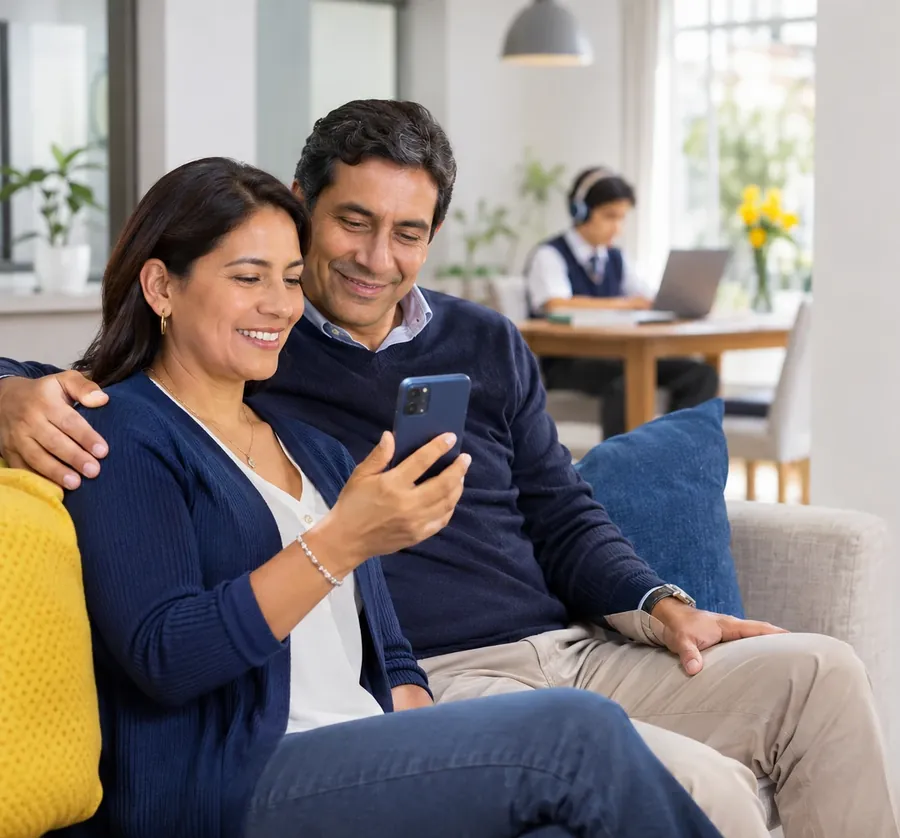
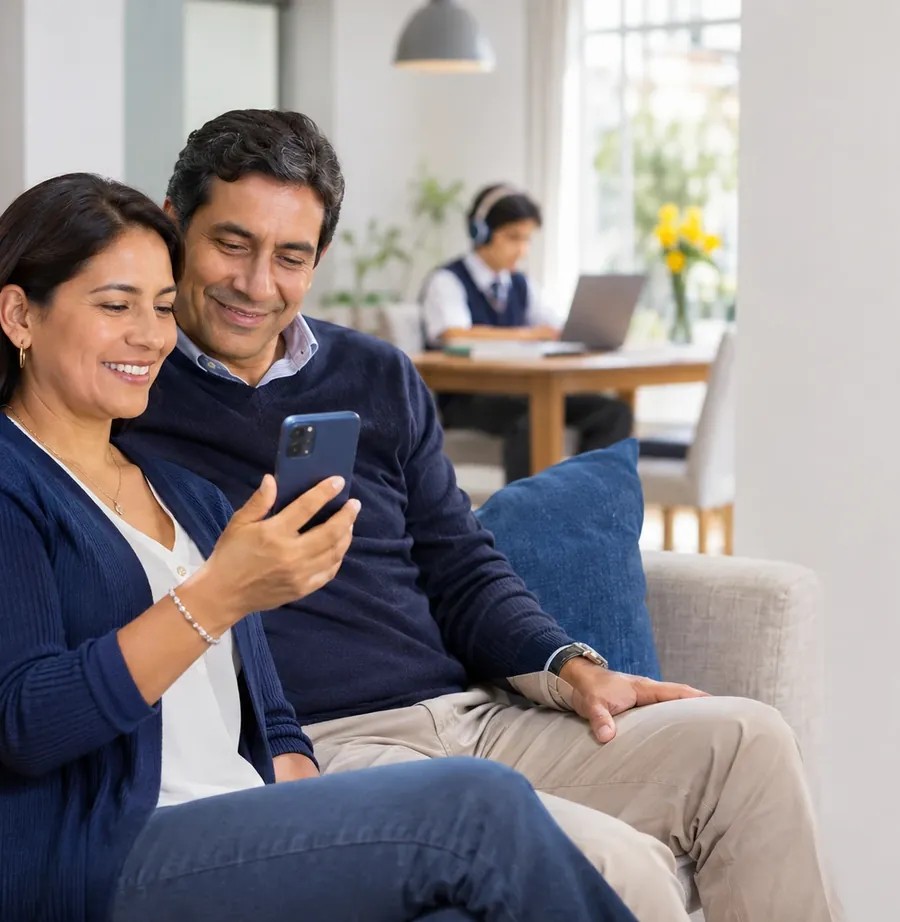
Propuesta A: foto S.O.S. nueva, sección empresas y recorte de padres
- Franja S.O.S. con la nueva foto (alumna repasando de noche)
- Nueva sección "matLab Empresas" con foto del taller corporativo
- Foto de los padres recortada desde la izquierda (sin la mano cortada)

Claude-Session: https://claude.ai/code/session_012ze8WRdCQ41QUxvsmvKpor

diff --git a/matlab-web/opcion-a/index.html b/matlab-web/opcion-a/index.html
@@ -232,7 +232,7 @@
     <section class="pa-padres" aria-labelledby="titulo-padres">
       <picture>
         <source media="(max-width: 900px)" srcset="/img/opcion-a/padres-informe-movil.webp">
-        <img src="/img/opcion-a/padres-informe.webp" alt="Mamá y papá revisando en el celular el avance de su hijo, que estudia al fondo" width="1536" height="1024" loading="lazy">
+        <img src="/img/opcion-a/padres-informe.webp" alt="Mamá y papá revisando en el celular el avance de su hijo, que estudia al fondo" width="1361" height="1024" loading="lazy">
       </picture>
       <div class="pa-ancho pa-padres-in">
         <div class="pa-padres-texto aparece">
@@ -286,9 +286,9 @@
         <p class="pa-eyebrow">Programas</p>
         <h2 class="pa-h2">Elige el programa <span>que necesita</span></h2>
         <div class="pa-programas" data-tarjetas="home" data-fotos></div>
-        <!-- Clases S.O.S. — PENDIENTE: foto nueva. Para ponerla, quita "sin-foto" y agrega aquí:
-             <img src="/img/opcion-a/prog-sos.webp" alt="..." width="1100" height="733" loading="lazy"> -->
-        <div class="pa-sos-banda sin-foto aparece">
+        <!-- Clases S.O.S. (foto img/opcion-a/prog-sos.webp) -->
+        <div class="pa-sos-banda aparece">
+          <img src="/img/opcion-a/prog-sos.webp" alt="Alumna repasando de noche en una clase virtual antes de su examen" width="1100" height="733" loading="lazy">
           <div class="pa-sos-texto">
             <p class="pa-eyebrow">Clases de emergencia S.O.S.</p>
             <h3>¿Tiene examen mañana?</h3>
@@ -308,6 +308,22 @@
         <img class="pa-matti-reserva" src="/img/mascotas/matti-cel.webp" alt="" width="260" height="303" loading="lazy">
         <p class="pa-intro pa-intro-claro">Responde dos preguntas, mira los horarios libres de la semana y separa la clase de tu hijo en menos de un minuto.</p>
         <div id="reserva-clase"></div>
+      </div>
+    </section>
+
+    <!-- ============ EMPRESAS (foto img/opcion-a/empresas-taller.webp) ============ -->
+    <section class="pa-seccion" id="empresas">
+      <div class="pa-ancho pa-empresas">
+        <img class="aparece" src="/img/opcion-a/empresas-taller.webp" alt="Facilitador de matLab dictando un taller de educación financiera a un equipo de trabajo" width="1200" height="800" loading="lazy">
+        <div>
+          <p class="pa-eyebrow">matLab Empresas</p>
+          <h2 class="pa-h2">Talleres de números y educación financiera <span>para empresas</span></h2>
+          <p class="pa-intro" style="margin-inline:0">Llevamos la metodología de matLab a tu equipo de trabajo: talleres prácticos de finanzas personales y manejo de números, presenciales o virtuales.</p>
+          <div class="pa-hero-botones" style="margin-bottom:0">
+            <a class="pa-btn pa-btn-primario" data-whatsapp="empresas">Cotizar un taller <span aria-hidden="true">→</span></a>
+            <a class="pa-btn pa-btn-borde" href="mailto:marketing@matlab.com.pe">marketing@matlab.com.pe</a>
+          </div>
+        </div>
       </div>
     </section>
   </main>

diff --git a/matlab-web/css/opcion-a.css b/matlab-web/css/opcion-a.css
@@ -405,3 +405,10 @@
 @media (max-width: 860px) { .pa-sos-banda { grid-template-columns: 1fr; } .pa-sos-banda img { min-height: 0; aspect-ratio: 3 / 2; } }
 .pa-sos-banda.sin-foto { grid-template-columns: 1fr; }
 .pa-sos-banda.sin-foto .pa-sos-texto { max-width: 720px; }
+
+/* ---------- Empresas ---------- */
+.pa-empresas { display: grid; grid-template-columns: 1.1fr 1fr; gap: clamp(2rem, 5vw, 4rem); align-items: center; }
+.pa-empresas > * { min-width: 0; }
+.pa-empresas img { width: 100%; height: auto; border-radius: 20px; box-shadow: var(--sombra); display: block; }
+@media (max-width: 900px) { .pa-empresas { grid-template-columns: 1fr; } .pa-empresas .pa-btn { width: 100%; } }
+.pa-sos-banda img { object-position: center 40%; }
